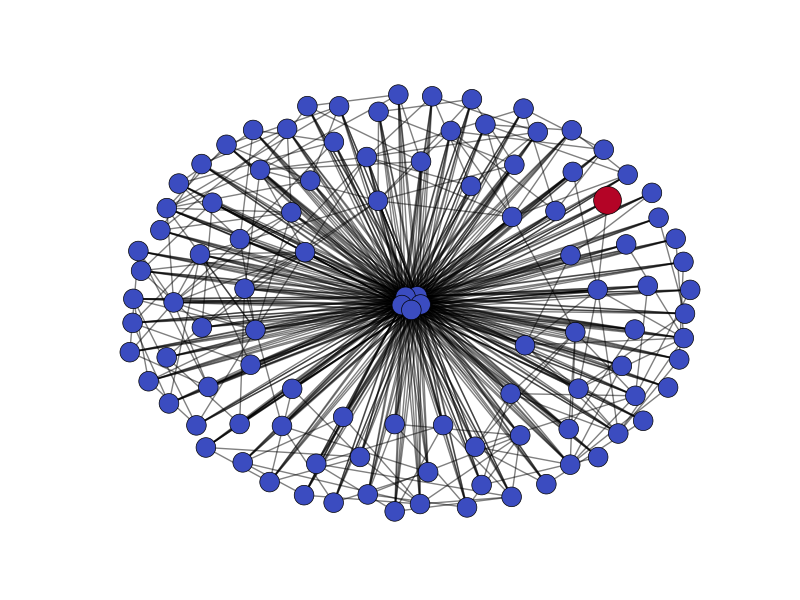
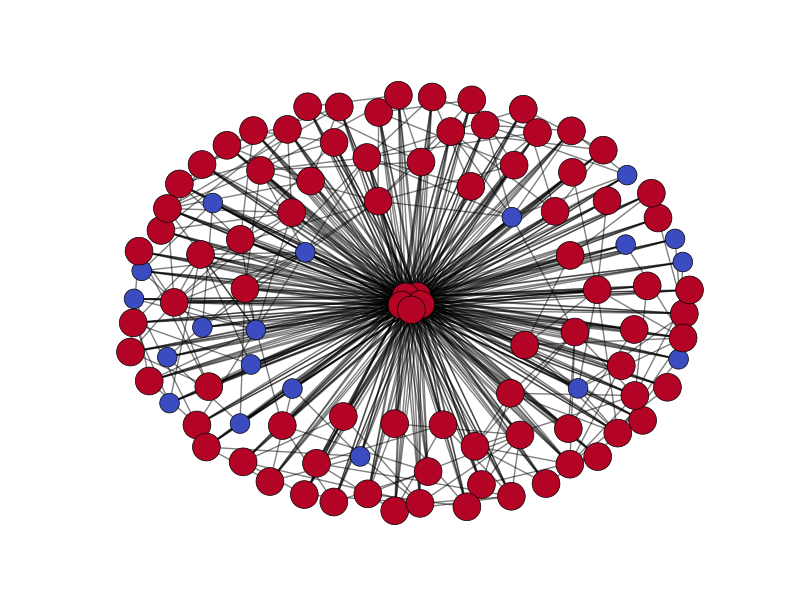
fixed first sim running nested for loops, multiplied dr by 1.3 and removed code for unnecesary graphs

Changed region(s): [[0.125, 0.12, 0.875, 0.87], [0.4688, 0.45, 0.5625, 0.54]]

diff --git a/run/first-sim.py b/run/first-sim.py
@@ -9,66 +9,49 @@ for k in range(1):
     G_super = network("b")
 
 
-for i in G_super.nodes:
-    # record initial infection rate data
-    red_prop_data[0].append(i.red_proportion())
-    super_red_prop_data[0].append(i.super_red_proportion())
-    
-    #print r/b balls in each urn initially
-    #print("\n Red/black balls in " + str(i.id) + " urn: " + str(i.total_red) +"/"+ str(i.total_black))
-
-for j in range(time_steps):
-    print("Urn " + str(G_super.nodes[0].id) + ". db: " + str(G_super.nodes[0].delta_b) + ", dr: " + str(G_super.nodes[0].delta_r) + "\n Black/red balls are " + str(G_super.nodes[0].total_black) +"/"+ str(G_super.nodes[0].total_red))
-    
-    # if j % 10 == 0:
-    #     draw_graph(G_super, j)
-    G_super.supernode_run_step()
     for i in G_super.nodes:
         # record initial infection rate data
-        red_prop_data[j+1].append(i.red_proportion())
-        super_red_prop_data[j+1].append(i.super_red_proportion())
+        red_prop_data[0].append(i.red_proportion())
+        super_red_prop_data[0].append(i.super_red_proportion())
         
-        # print r/b balls in each urn initially
-        # print("\n Red/black balls in " + str(i.id) + " urn: " + str(i.total_red) +"/"+ str(i.total_black))
+        #print r/b balls in each urn initially
+        #print("\n Red/black balls in " + str(i.id) + " urn: " + str(i.total_red) +"/"+ str(i.total_black))
 
+    
     for j in range(time_steps):
         print("Urn " + str(G_super.nodes[0].id) + ". db: " + str(G_super.nodes[0].delta_b) + ", dr: " + str(G_super.nodes[0].delta_r) + "\n Red/black balls are " + str(G_super.nodes[0].total_red) +"/"+ str(G_super.nodes[0].total_black))
         
-        if j % 10 == 0:
+        if j % 5 == 0:
             draw_graph(G_super, j, k)
         G_super.supernode_run_step()
         for i in G_super.nodes:
             red_prop_data[j+1].append(i.red_proportion())
             super_red_prop_data[j+1].append(i.super_red_proportion())
 
-    time = []
-    average_red_prop = []
-    
-    for j in range(time_steps):
-        average_red_prop.append(sum(red_prop_data[j])/len(red_prop_data[j]))
-        time.append(j)
+        # time = []
+        # average_red_prop = []
+        
+        # for j in range(time_steps):
+            # average_red_prop.append(sum(red_prop_data[j])/len(red_prop_data[j]))
+            # time.append(j)
 
-time = []
-average_red_prop = []
-for j in range(time_steps):
-    average_red_prop.append(sum(red_prop_data[j])/len(red_prop_data[j]))
-    time.append(j)
-x = time
-# corresponding y axis values
-y = average_red_prop
 
-# plotting the points
-plt.plot(x, y)
+    # x = range(time_steps)
+    # corresponding y axis values
+    # y = average_red_prop
 
-# naming the x axis
-plt.xlabel('Step')
-# naming the y axis
-plt.ylabel('Average Proportion of Red Balls Over All Urns')
+    # plotting the points
+    # plt.plot(x, y)
 
-# plot data
-plot_ave_red_proportion(red_prop_data)
-plot_ave_infection_rate(super_red_prop_data)
-total_infected_plot(G_super)
-average_total_infected_plot(G_super)
+    # naming the x axis
+    # plt.xlabel('Step')
+    # naming the y axis
+    # plt.ylabel('Average Proportion of Red Balls Over All Urns')
 
-print("Done")
+    # plot data
+    # plot_ave_red_proportion(red_prop_data)
+    # plot_ave_infection_rate(super_red_prop_data)
+    total_infected_plot(G_super)
+    average_total_infected_plot(G_super)
+
+    print("Done")

diff --git a/model/node.py b/model/node.py
@@ -74,7 +74,7 @@ class polya_node:
                 total_red += i.total_red
     
             try:
-                dr = floor(total_red / (len(self.neighbours)))
+                dr = floor(1.3*(total_red / (len(self.neighbours))))
             except:
                 print("Urn with ID #" + str(self.id) + " has no neighbours")
             if dr == 0:

diff --git a/utilities/utilities.py b/utilities/utilities.py
@@ -11,7 +11,7 @@ init_split = (init_red_balls + init_black_balls)/2
 spread_rate = 10
 time_steps = 90
 number_of_nodes = 100
-memory = 3
+memory = 4
 
 
 # Generate new network
